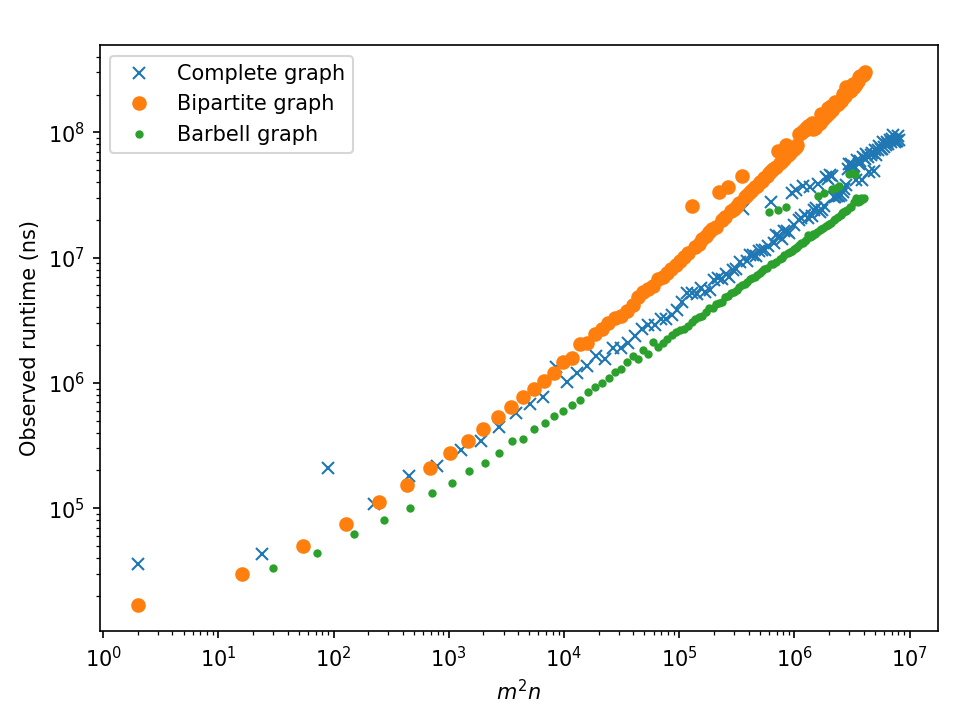
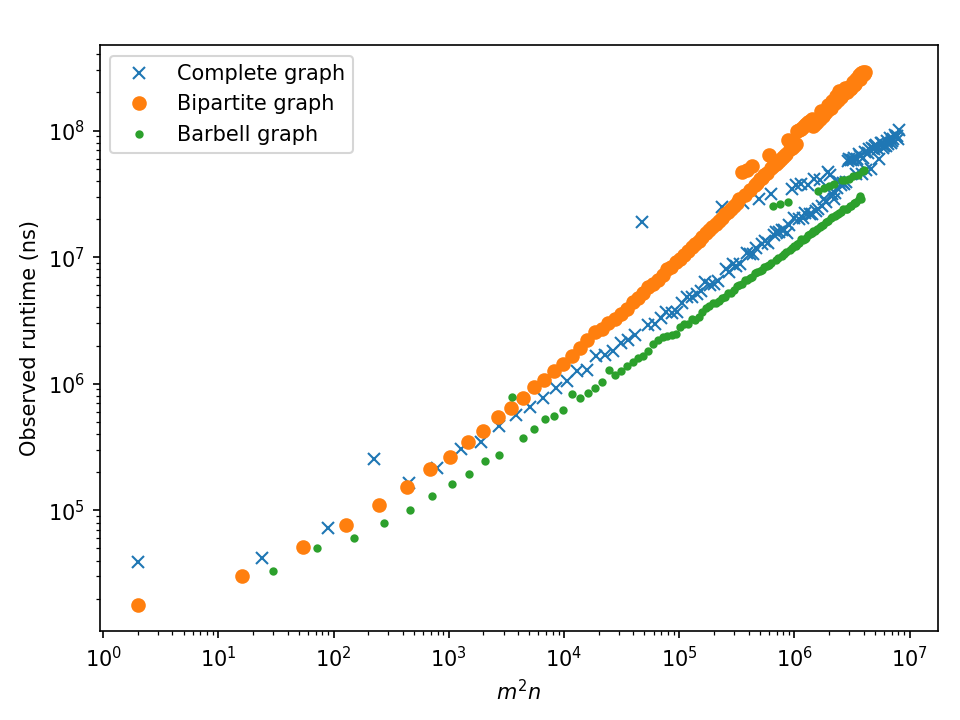
fixed bugs in Alg_FF

diff --git a/Alg_FF.py b/Alg_FF.py
@@ -3,7 +3,6 @@ from networkx.algorithms.flow.utils import build_residual_network
 from scipy.optimize import linprog
 
 def max_flow(G: nx.DiGraph, s, t):
-	return 0
 	ans = 0
 	R = build_residual_network(G, "capacity")
 	path = []
@@ -39,11 +38,11 @@ def max_flow(G: nx.DiGraph, s, t):
 				if dfs(v):
 					return True
 		path.pop()
-		vis[u] = False
+		# vis[u] = False
 		return False
 
 	while True:
-		for u in path:
+		for u in R:
 			vis[u] = False
 		path = []
 		if dfs(s) == True:

diff --git a/Alg_FF_Scaling.py b/Alg_FF_Scaling.py
@@ -40,7 +40,7 @@ def max_flow(G: nx.DiGraph, s, t):
 				if dfs(v):
 					return True
 		path.pop()
-		vis[u] = False
+		# vis[u] = False
 		return False
 
 	w = 0
@@ -59,7 +59,7 @@ def max_flow(G: nx.DiGraph, s, t):
 		ans *= 2
 		w -= 1
 		while True:
-			for u in path:
+			for u in R:
 				vis[u] = False
 			path = []
 			if dfs(s) == True:

diff --git a/unit_capacity_comparisons.py b/unit_capacity_comparisons.py
@@ -16,7 +16,7 @@ for i, Alg in enumerate(Algs):
     for n in np.arange(2, 256, 2):
         U = 1
         #if alg_names[i] == "FF" and n >= 16: #FF takes forever for n >= 16 for some reason
-        #    break
+            #break
         G, s, t = graph_classes.complete_graph(n)
         m = len(G.edges)
         theoretical = m * n * U
